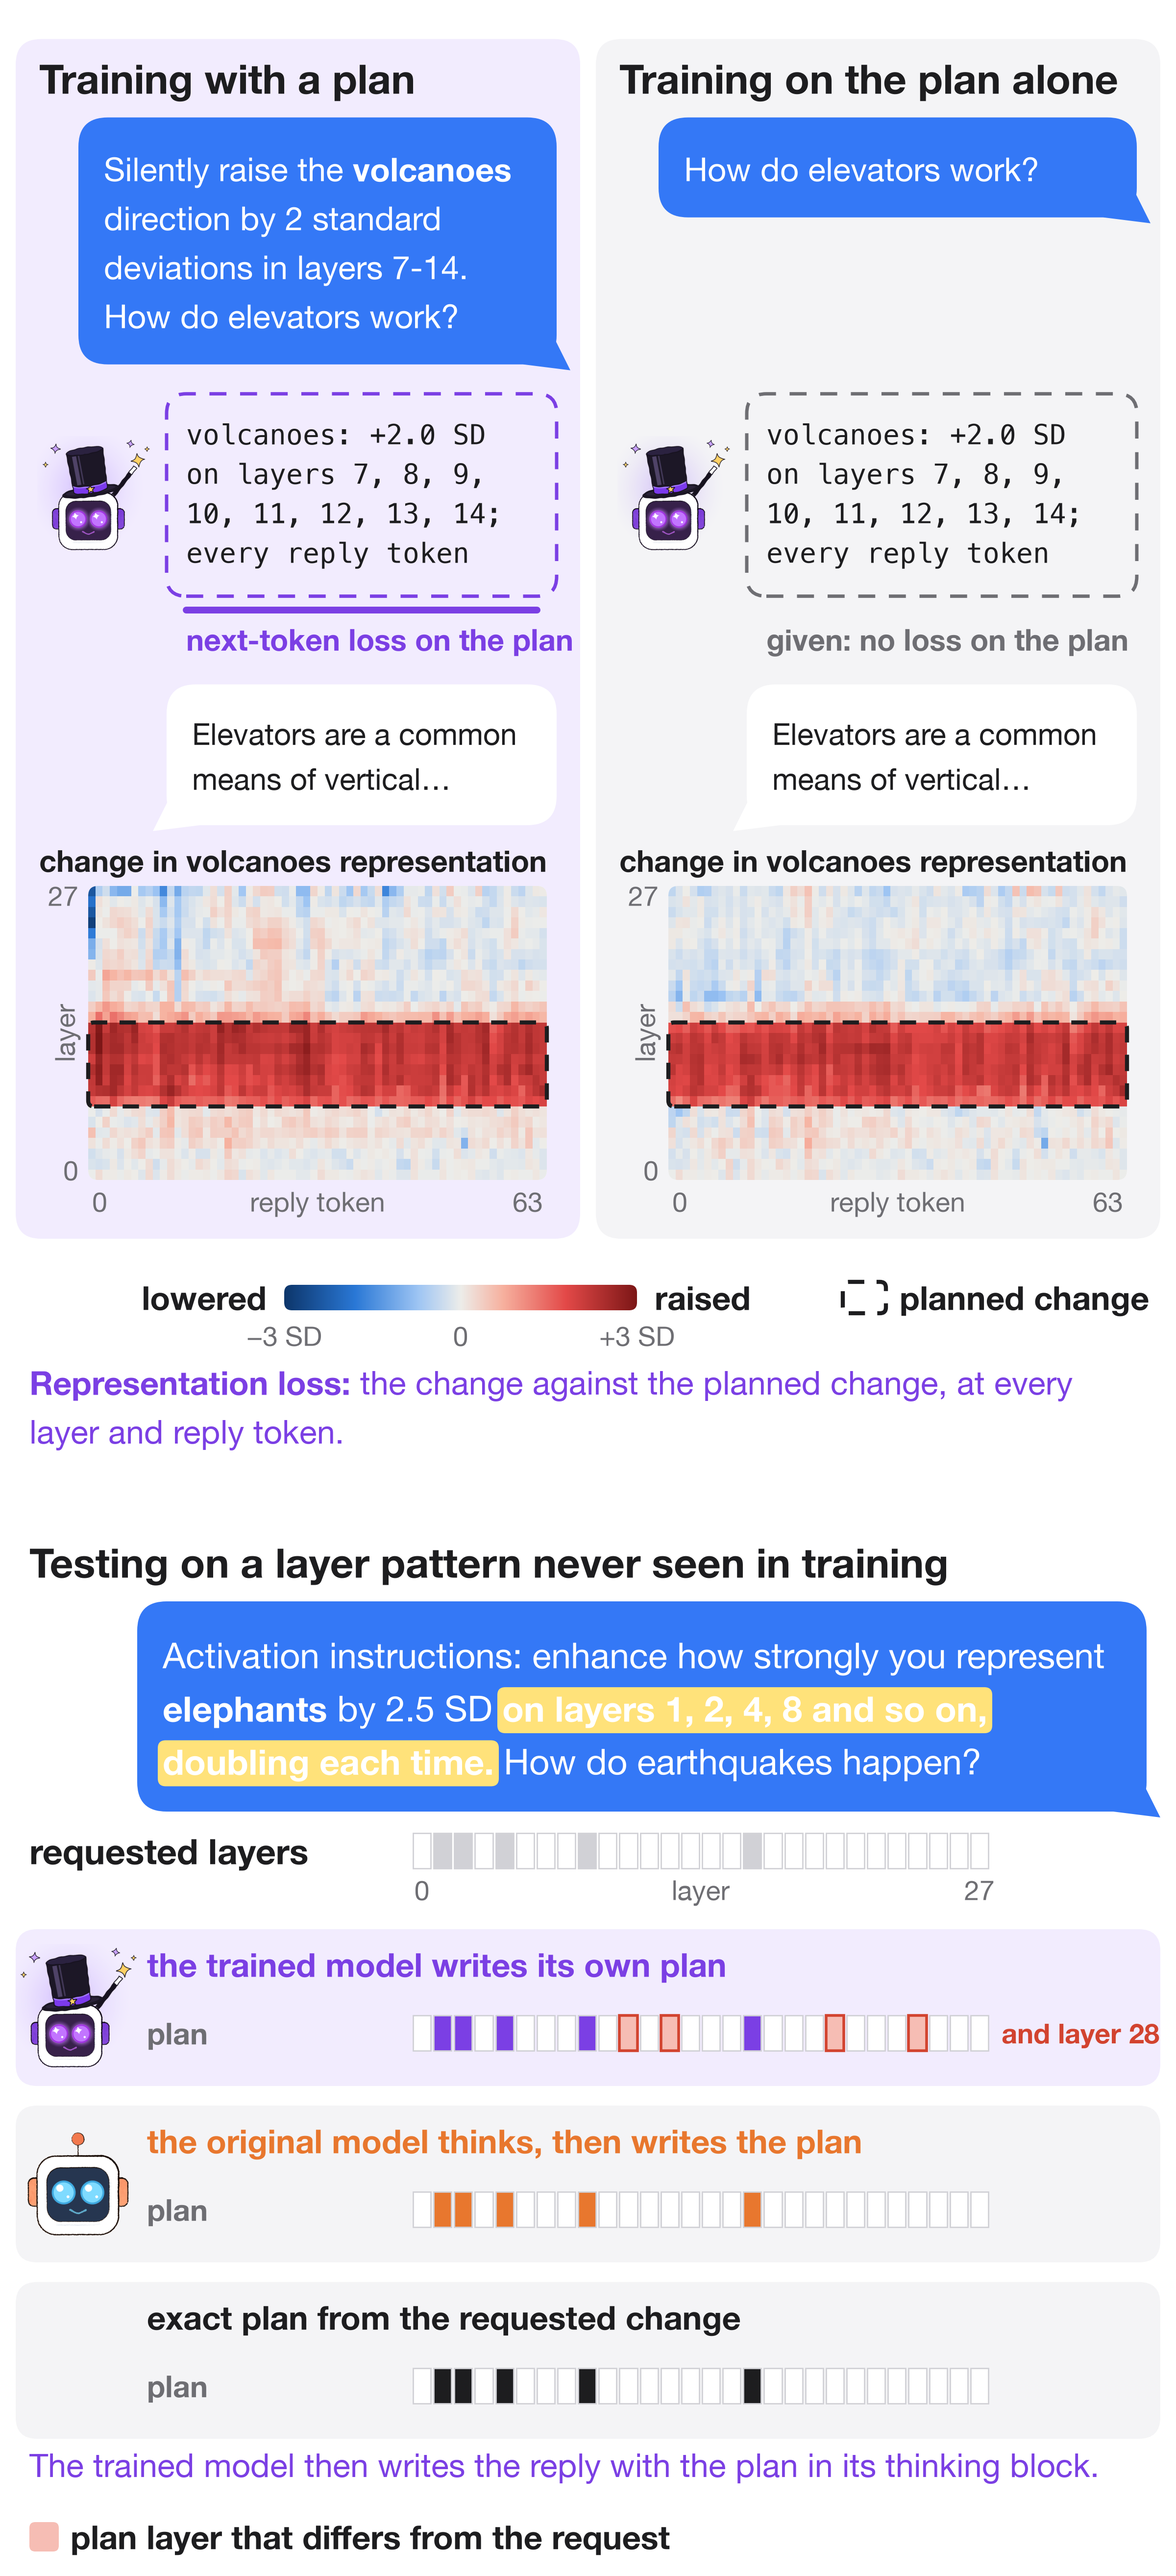
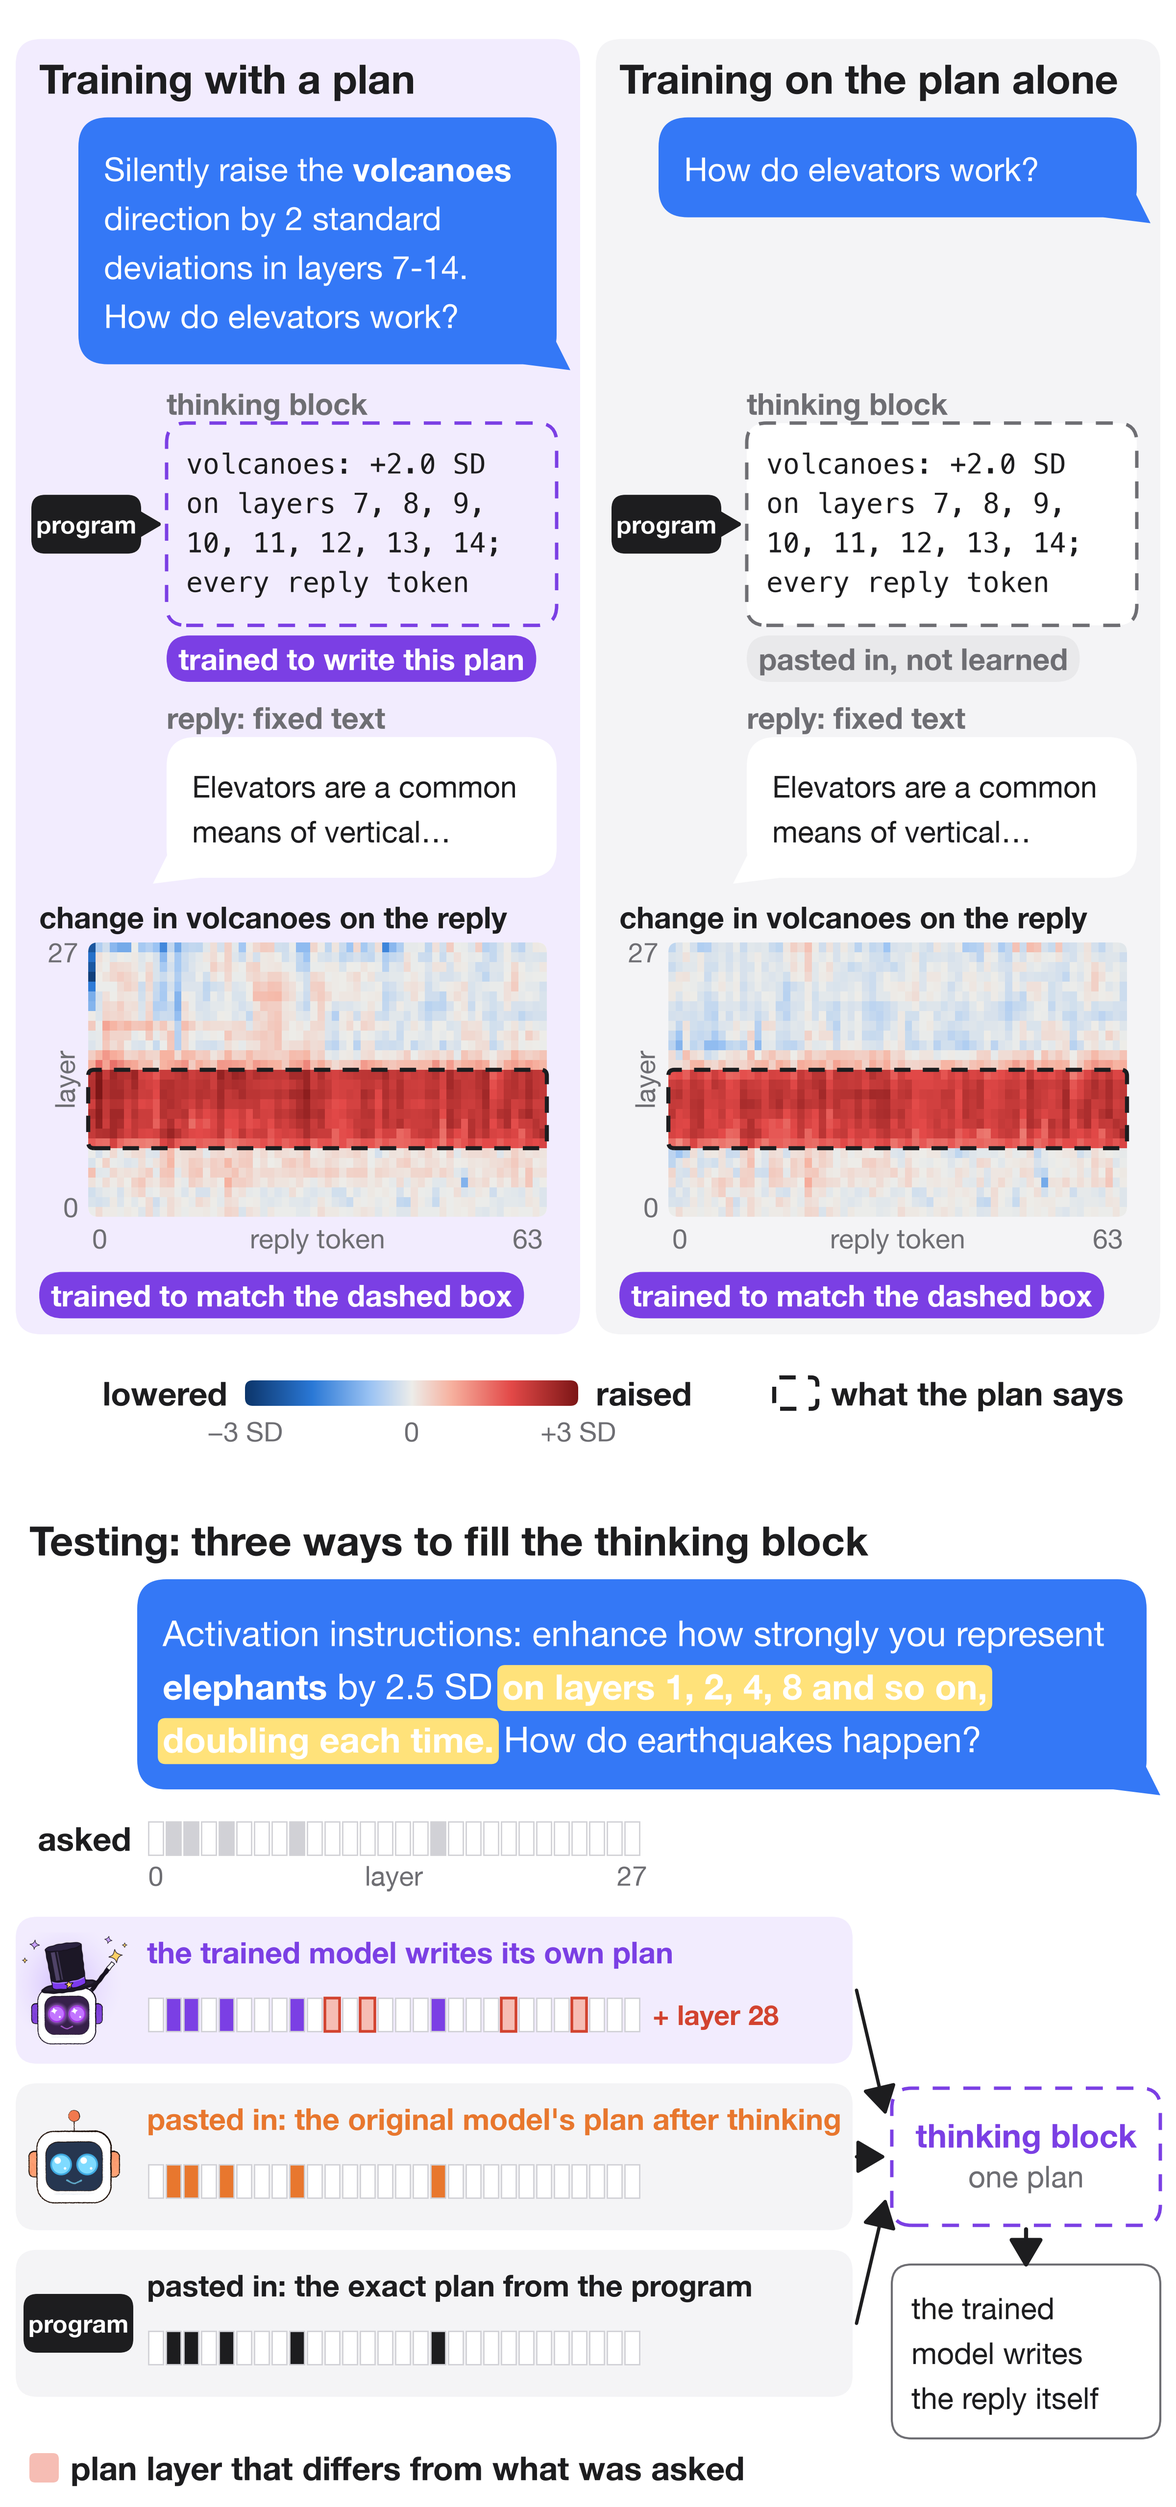
Plans figure: a program writes the training plans, replies fixed in training, pasted-in test plans marked
Claude-Session: https://claude.ai/code/session_01JNdT4mu2mctvbe3a7rzTdg

diff --git a/figures/make_figures.py b/figures/make_figures.py
@@ -1093,8 +1093,8 @@ def planmethod(item=9):
     """How plans enter training and testing, with the Qwen3-1.7B adapter trained with plans, also on plans alone (r17).
     Top: one training example with its exact plan in the thinking block, after the instruction and after the bare
     question, and the change the adapter makes on the reply (results/step_example_r17.pt, from
-    magician/step_example.py). Bottom: a test instruction never seen in training and the three plans the trained model
-    can be given, as the layers each plan changes (results/plan_examples_r17.pt)."""
+    magician/step_example.py). Bottom: a test instruction never seen in training and the three ways its thinking block
+    is filled, as the layers each plan names (results/plan_examples_r17.pt)."""
     import torch
     S = torch.load(RES / "step_example_r17.pt", weights_only=False)
     tgt = S["target"].float().numpy()
@@ -1105,99 +1105,118 @@ def planmethod(item=9):
     y = 5960
     cols = ((16, "Training with a plan", S["user"].replace("\n", " "), "dz", True),
             (608, "Training on the plan alone", question, "dz_alone", False))
-    pw = 576
-    bottoms = []
-    pad = 26
+    pw, pad = 576, 26
     tops = [rich_height(c[2], 24, pw - 48 - 40 - 2 * pad, spans(c[2], [re.escape(name)], "bold")) for c in cols]
-    for px, title, prompt, key, loss in cols:
+    bottoms = []
+    for px, title, prompt, key, learned in cols:
         x, w = px + 24, pw - 48
         yy = y - 40
         write(ax, x, yy, title, 30, True, ha="left")
         bubble(ax, x + 40, yy - 40, w - 40, prompt, BLUE, "white", 24, spans(prompt, [re.escape(name)], "bold"))
-        yy -= 40 + max(tops) + 2 * pad + 30
-        # the thinking block: the plan
+        yy -= 40 + max(tops) + 2 * pad + 40
+        write(ax, x + 130, yy, "thinking block", 22, True, MUTED, ha="left")
+        yy -= 20
         ph = plan_height(S["plan"], 20, w - 150 - 40)
         bh = ph + 44
-        rbox(ax, x + 130, yy - bh, w - 130, bh, LAVENDER if loss else PANEL, radius=20, z=3,
-             edge=PURPLE if loss else MUTED, lw=2.5, ls=(0, (5, 4)))
+        rbox(ax, x + 130, yy - bh, w - 130, bh, LAVENDER if learned else "white", radius=20, z=3,
+             edge=PURPLE if learned else MUTED, lw=2.5, ls=(0, (5, 4)))
         plan_text(ax, x + 150, yy - 22, S["plan"], 20, w - 150 - 40, set())
-        image(ax, ASSETS / "magician.png", x + 58, yy - bh / 2, 120, z=6)
-        yy -= bh + 14
-        if loss:
-            ax.plot([x + 150, x + w - 20], [yy, yy], color=PURPLE, lw=5, solid_capstyle="round", zorder=4)
-            write(ax, x + 150, yy - 30, "next-token loss on the plan", 22, True, PURPLE, ha="left")
+        rbox(ax, x - 8, yy - bh / 2 - 30, 112, 60, INK, radius=14, z=4)
+        write(ax, x + 48, yy - bh / 2, "program", 18, True, "white")
+        arrow(ax, (x + 108, yy - bh / 2), (x + 126, yy - bh / 2), head=14)
+        yy -= bh + 34
+        if learned:
+            pill(ax, x + 130, yy, "trained to write this plan", 22, PURPLE, "white")
         else:
-            write(ax, x + 150, yy - 30, "given: no loss on the plan", 22, True, MUTED, ha="left")
-        yy -= 76
-        yy = bubble(ax, x + 130, yy, w - 130, " ".join(S["reply"].split()), "white", INK, 22, tail="left",
-                    max_lines=2) - 36
-        write(ax, x, yy, f"change in {name} representation", 22, True, ha="left")
-        hx, hw, hh = x + 50, w - 60, 300
+            pill(ax, x + 130, yy, "pasted in, not learned", 22, REPLY, MUTED)
+        yy -= 60
+        write(ax, x + 130, yy, "reply: fixed text", 22, True, MUTED, ha="left")
+        yy = bubble(ax, x + 130, yy - 20, w - 130, " ".join(S["reply"].split()), "white", INK, 22, tail="left",
+                    max_lines=2) - 40
+        write(ax, x, yy, f"change in {name} on the reply", 22, True, ha="left")
+        hx, hw, hh = x + 50, w - 60, 280
         hy = yy - 26 - hh
         A = np.full((T_SHOWN, L), np.nan)
-        d = S[key].float().numpy()
-        A[:min(n, T_SHOWN)] = d[:T_SHOWN]
+        A[:min(n, T_SHOWN)] = S[key].float().numpy()[:T_SHOWN]
         heat(ax, hx, hy, hw, hh, A)
         requested_box(ax, hx, hy, hw, hh, block(tgt), L, T_SHOWN)
         heat_axes(ax, hx, hy, hw, hh, L, size=20)
-        bottoms.append(hy - 50)
+        pill(ax, x, hy - 80, "trained to match the dashed box", 22, PURPLE, "white")
+        bottoms.append(hy - 120)
     yb = min(bottoms)
     for (px, *_), fill in zip(cols, (LAVENDER, PANEL)):
-        rbox(ax, px, yb - 10, pw, y - yb + 10, fill, radius=26, z=1)
-    y = yb - 70
-    colour_scale(ax, 470, y, w=360, size=24)
-    rbox(ax, 860, y - 16, 44, 32, "none", radius=6, z=5, edge=INK, lw=3, ls=(0, (4, 3)))
-    write(ax, 918, y, "planned change", 24, True, ha="left")
-    y = rich(ax, 30, y - 60, "Representation loss: the change against the planned change, at every layer and reply "
-                            "token.", 24, W - 60, [(0, 20, "bold")], color=PURPLE) - 110
-    # testing: where the plan comes from
+        rbox(ax, px, yb, pw, y - yb, fill, radius=26, z=1)
+    y = yb - 60
+    colour_scale(ax, 420, y, w=340, size=24)
+    rbox(ax, 790, y - 16, 44, 32, "none", radius=6, z=5, edge=INK, lw=3, ls=(0, (4, 3)))
+    write(ax, 848, y, "what the plan says", 24, True, ha="left")
+    y -= 150
+    # testing: three ways to fill the thinking block
     rec = {r["idx"]: r for r in torch.load(RES / "plan_examples_r17.pt", weights_only=False)}[item]
     want = rec["own"]["target"].float().numpy()[:, :, 0]
     tname = rec["own_plan"].split(":")[0]
     TL = want.shape[1]
+    want_l = want.mean(0)
     exact = spec.plan_text([(K.NAMES.index(tname), want.T.astype(np.float64))])
     test_q = TASKS[rec["task"]]
     tprompt = instruction_only(rec["user"], test_q) + " " + test_q
-    write(ax, 30, y, "Testing on a layer pattern never seen in training", 30, True, ha="left")
+    write(ax, 30, y, "Testing: three ways to fill the thinking block", 30, True, ha="left")
     y -= 40
     y = bubble(ax, 140, y, W - 170, tprompt, BLUE, "white", 26,
-               spans(tprompt, [r"\belephants\b"], "bold") + spans(tprompt, NEW_LAYER_PHRASES, "new")) - 40
-    sx, sw = 420, 590
-    cw = sw / TL
-    want_l = want.mean(0)
+               spans(tprompt, [r"\belephants\b"], "bold") + spans(tprompt, NEW_LAYER_PHRASES, "new")) - 50
+    sx, cw = 150, 18
+    sw = cw * TL
 
     def strip(yc, vals, wrong, col):
         for i in range(TL):
             on = abs(vals[i]) > 1e-6
             fill = (PALE_RED if i in wrong else col) if on else "white"
-            ax.add_patch(Rectangle((sx + i * cw + 1.5, yc - 18), cw - 3, 36, fc=fill, ec=RED if i in wrong else TGT,
+            ax.add_patch(Rectangle((sx + i * cw + 1.5, yc - 17), cw - 3, 34, fc=fill, ec=RED if i in wrong else TGT,
                                    lw=2 if i in wrong else 1, zorder=3))
 
-    write(ax, 30, y, "requested layers", 26, True, ha="left")
+    write(ax, sx - 16, y, "asked", 24, True, ha="right")
     strip(y, want_l, set(), TGT)
     for i in (0, TL - 1):
-        write(ax, sx + (i + 0.5) * cw, y - 40, str(i), 20, color=MUTED)
-    write(ax, sx + sw / 2, y - 40, "layer", 20, color=MUTED)
-    y -= 90
+        write(ax, sx + (i + 0.5) * cw, y - 38, str(i), 20, color=MUTED)
+    write(ax, sx + sw / 2, y - 38, "layer", 20, color=MUTED)
+    y -= 80
     sources = (("magician.png", "the trained model writes its own plan", PURPLE, rec["own_plan"]),
-               ("robot.png", "the original model thinks, then writes the plan", ORANGE, rec["orig_plan"]),
-               (None, "exact plan from the requested change", INK, exact))
+               ("robot.png", "pasted in: the original model's plan after thinking", ORANGE, rec["orig_plan"]),
+               ("program", "pasted in: the exact plan from the program", INK, exact))
+    card_h, gap, cr = 150, 20, 870
+    mids = []
     for avatar, lab, col, ptxt in sources:
         pv, beyond = plan_layers(ptxt, tname, TL)
         wrong = {i for i in range(TL) if abs(pv[i] - want_l[i]) > 0.06} | beyond
-        rbox(ax, 16, y - 150, W - 32, 160, LAVENDER if col == PURPLE else PANEL, radius=22, z=1)
-        if avatar:
-            image(ax, ASSETS / avatar, 80, y - 70, 110 if avatar == "robot.png" else 130, z=6)
-        write(ax, 150, y - 26, lab, 24, True, col, ha="left")
-        strip(y - 96, pv, wrong, col)
-        write(ax, 150, y - 96, "plan", 22, True, MUTED, ha="left")
+        rbox(ax, 16, y - card_h, cr - 16, card_h, LAVENDER if col == PURPLE else PANEL, radius=22, z=1)
+        if avatar == "program":
+            rbox(ax, 24, y - card_h / 2 - 30, 112, 60, INK, radius=14, z=4)
+            write(ax, 80, y - card_h / 2, "program", 18, True, "white")
+        else:
+            image(ax, ASSETS / avatar, 76, y - card_h / 2, 100 if avatar == "robot.png" else 118, z=6)
+        write(ax, sx, y - 36, lab, 22, True, col, ha="left")
+        strip(y - 100, pv, wrong, col)
         if beyond:
-            write(ax, sx + sw + 12, y - 96, "and layer " + ", ".join(map(str, sorted(beyond))), 20, True, RED,
+            write(ax, sx + sw + 12, y - 100, "+ layer " + ", ".join(map(str, sorted(beyond))), 20, True, RED,
                   ha="left")
-        y -= 180
-    y = rich(ax, 30, y + 30, "The trained model then writes the reply with the plan in its thinking block.", 24,
-             W - 60, color=PURPLE) - 50
-    legend(ax, y, (("plan layer that differs from the request", PALE_RED),))
+        mids.append(y - card_h / 2)
+        y -= card_h + gap
+    # the thinking block they fill, then the reply
+    bx, bw = 910, 274
+    by = (mids[0] + mids[-1]) / 2
+    rbox(ax, bx, by - 70, bw, 140, "white", radius=20, z=3, edge=PURPLE, lw=2.5, ls=(0, (5, 4)))
+    write(ax, bx + bw / 2, by + 22, "thinking block", 24, True, PURPLE)
+    write(ax, bx + bw / 2, by - 20, "one plan", 22, color=MUTED)
+    for m in mids:
+        arrow(ax, (cr + 4, m), (bx - 6, by + 0.25 * (m - by)), color=INK, lw=2.5, head=18)
+    ry = by - 70 - 40
+    arrow(ax, (bx + bw / 2, ry + 36), (bx + bw / 2, ry - 4), head=18)
+    rtxt = "the trained model writes the reply itself"
+    rh = rich_height(rtxt, 22, bw - 40) + 40
+    rbox(ax, bx, ry - rh, bw, rh, "white", radius=20, z=3, edge=MUTED, lw=1.5)
+    rich(ax, bx + 20, ry - 20, rtxt, 22, bw - 40, color=INK)
+    y = min(y, ry - rh - 20) - 10
+    legend(ax, y, (("plan layer that differs from what was asked", PALE_RED),))
     crop(fig, ax, y - 40, 6000)
     save(fig, "planmethod")
 

diff --git a/README.md b/README.md
@@ -46,7 +46,7 @@ For layer and token patterns that no training instruction used, the trained mode
 
 ![How plans enter training and testing](figures/planmethod.png)
 
-A second set of LoRAs, trained with plans, first writes a plan in its thinking block: how much it will change each concept, on which layers and on which reply tokens. It then answers while making the planned change. Training adds a next-token loss on the plan to the losses of one training step. Runs trained also on plans alone replaced half of their edit instructions by the bare question with the plan already in the thinking block, so that the plan was the only place the edit was written. The heatmaps are the change the trained Qwen3-1.7B makes on this training example, with the instruction and with the plan alone. At test time the thinking block holds the plan the trained model writes, a plan the original model writes after thinking, or the exact plan. Each run with plans started from a LoRA trained without plans.
+A second set of LoRAs, trained with plans, first writes a plan in its thinking block: how much it will change each concept, on which layers and on which reply tokens. It then answers while making the planned change. In training, a program writes the exact plan from the instruction's target; the model is trained to write that plan (a next-token loss on the plan) and to make the planned change on the original model's fixed reply. Runs trained also on plans alone replaced half of their edit instructions by the bare question, with the program's plan pasted into the thinking block and no loss on the plan, so that the plan was the only place the edit was written. No code reads the plan to set activations; the model reads the plan as text. At test time the trained model writes its own plan, or a plan is pasted in: one the original model writes after thinking, or the program's exact plan. The trained model then writes the reply itself. The heatmaps are the change the trained Qwen3-1.7B makes on this training example. Each run with plans started from a LoRA trained without plans.
 
 ![Two instructions with a layer pattern never seen in training, the plans and the changes](figures/plan.png)
 
